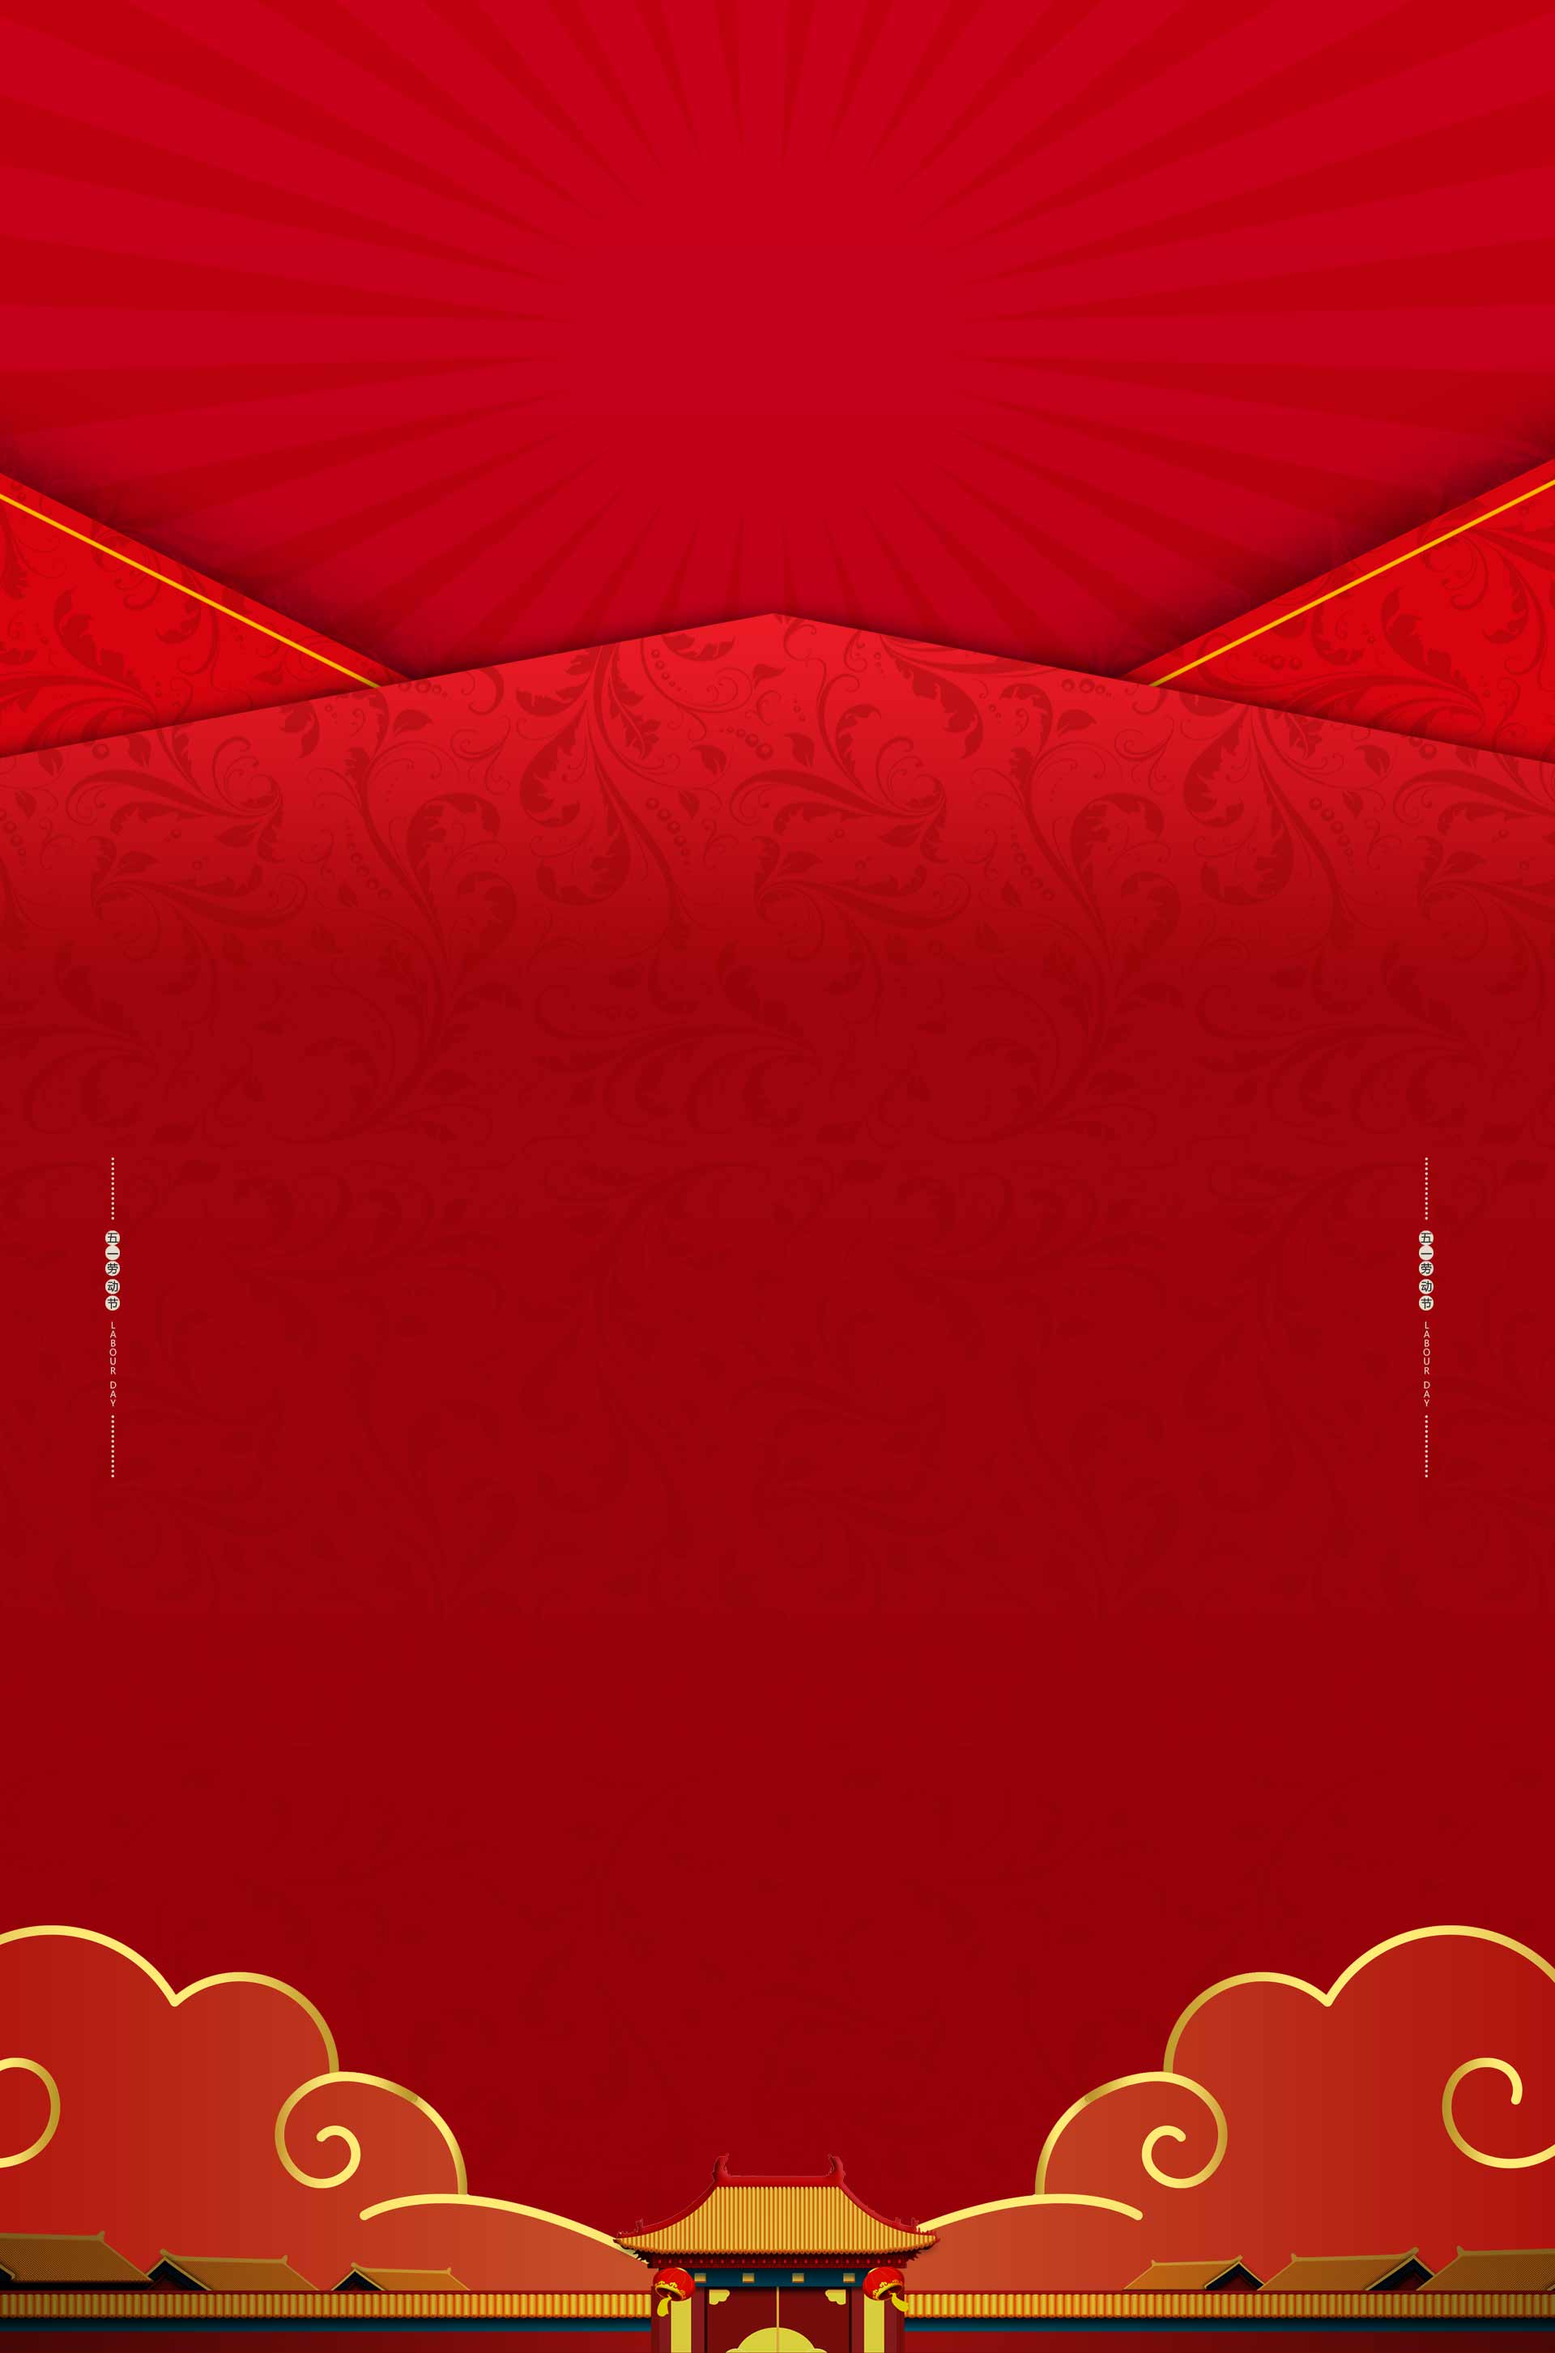
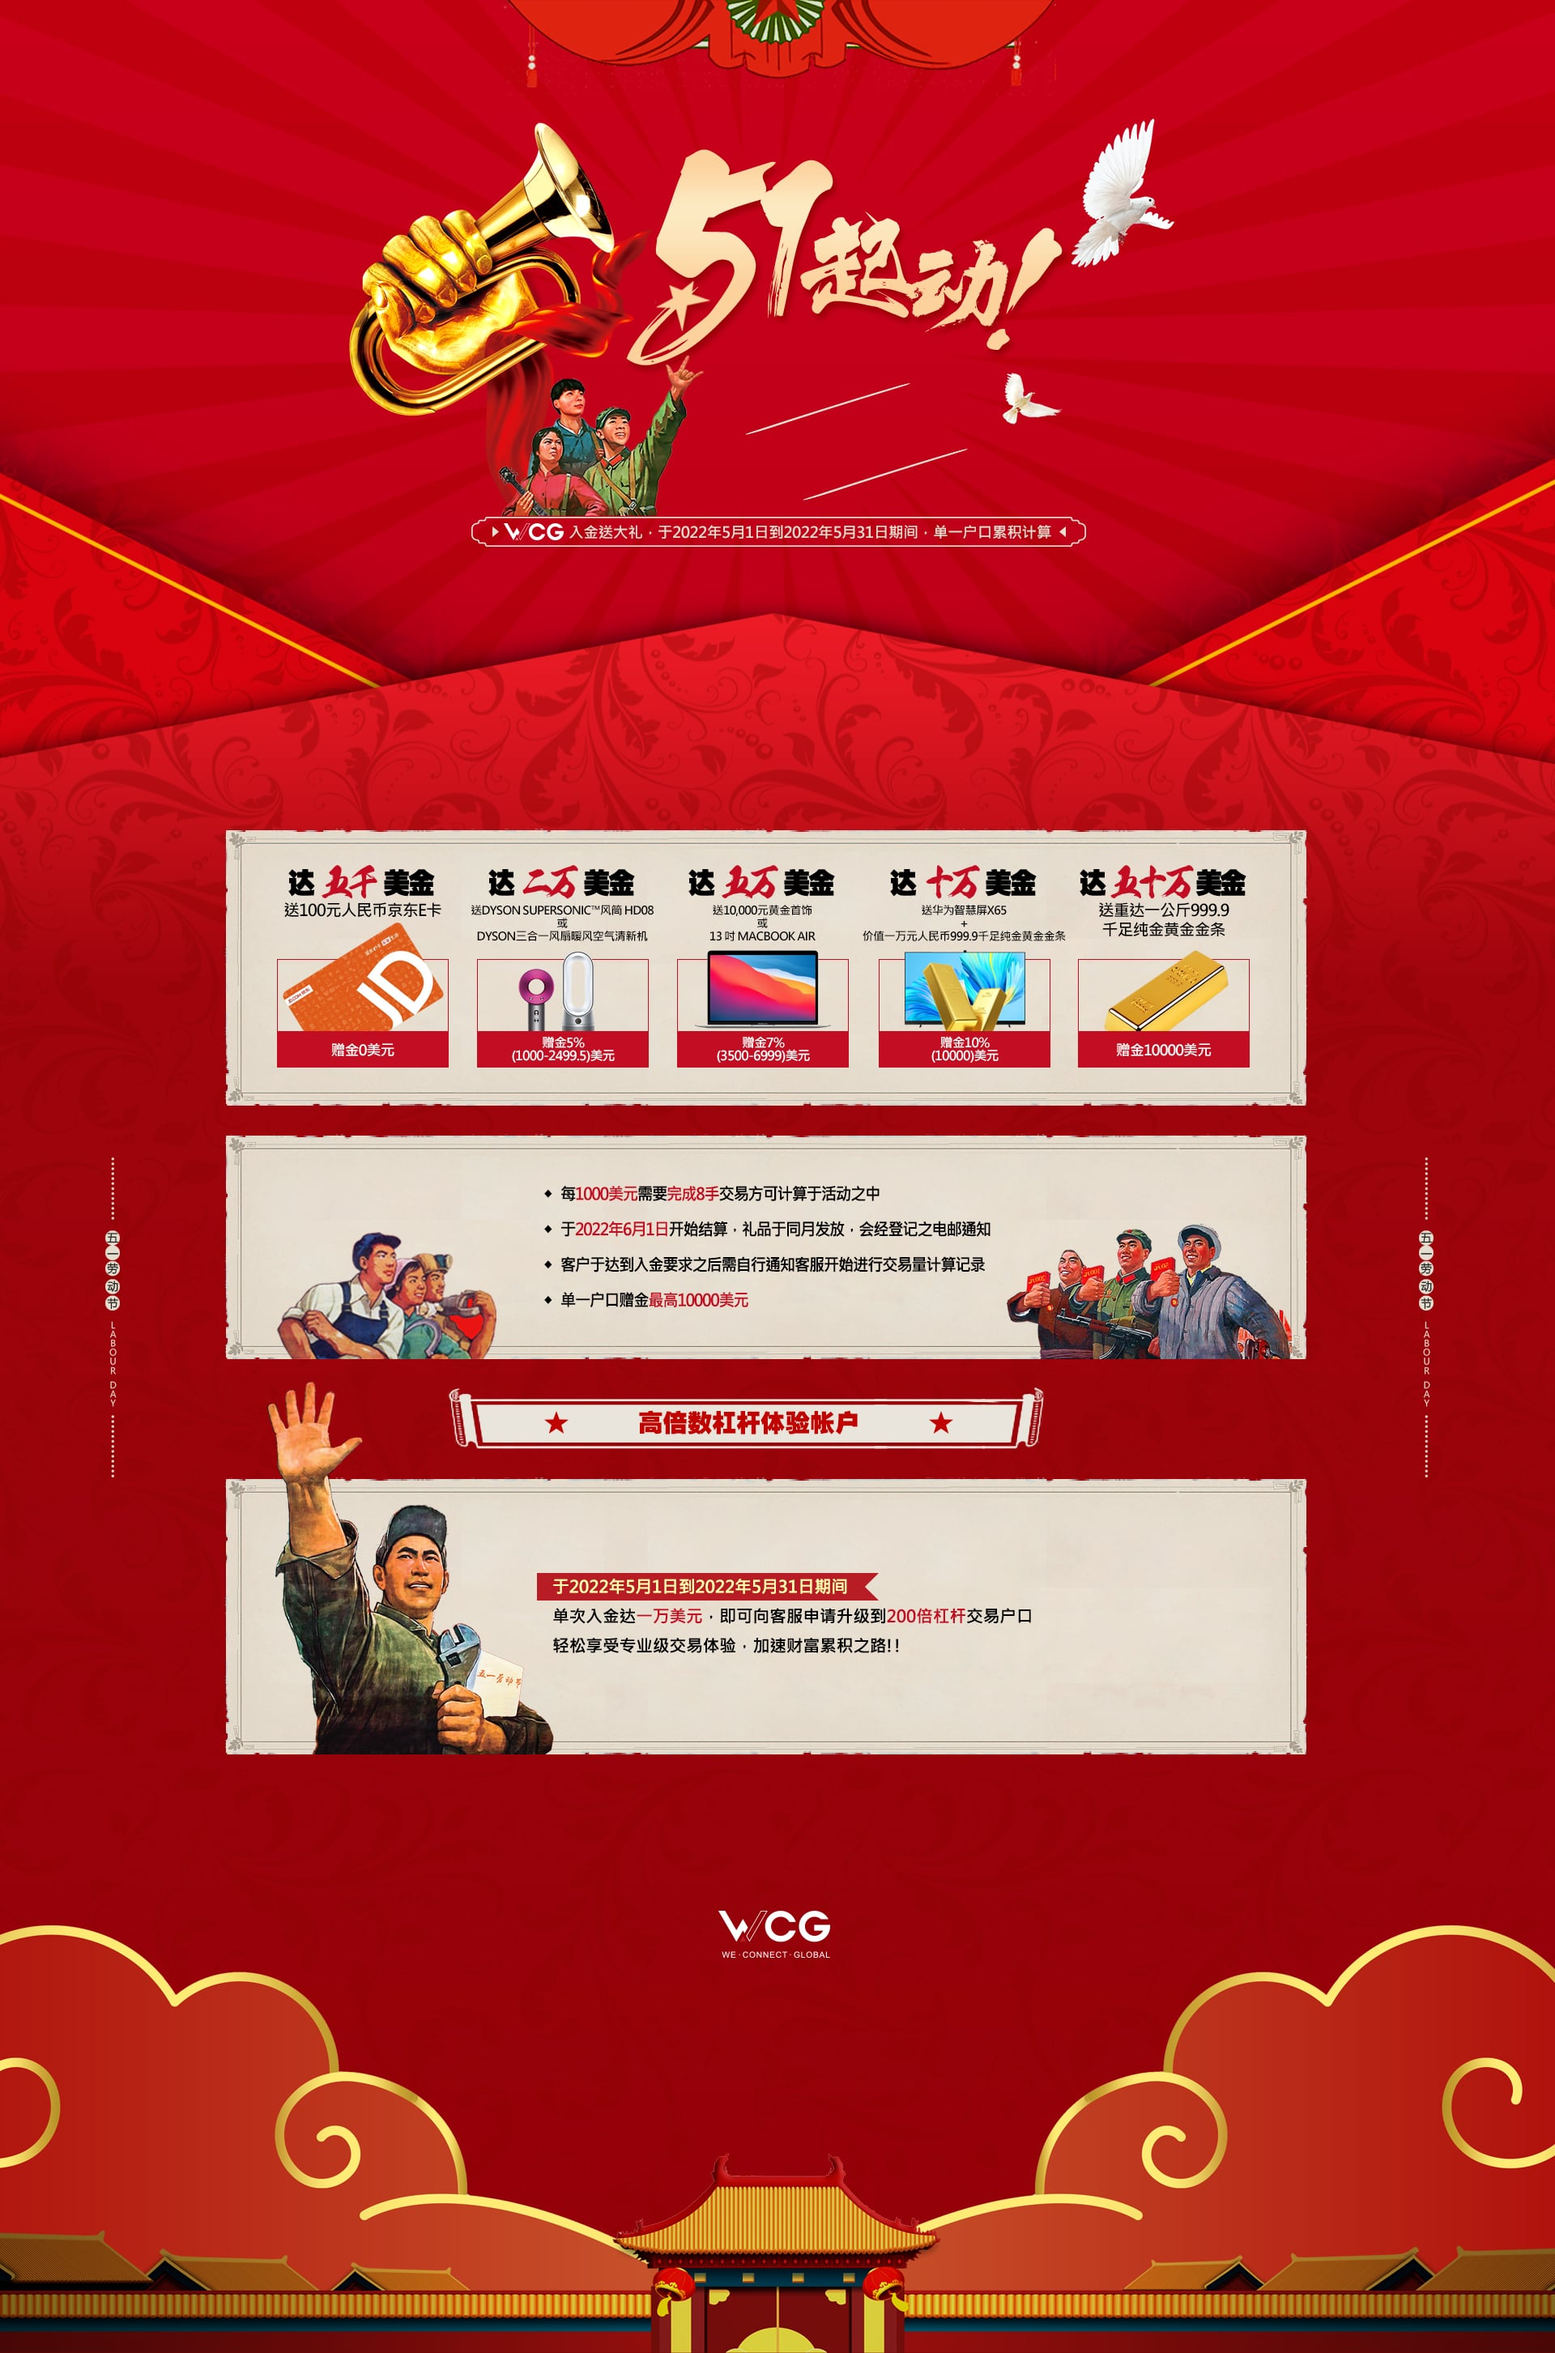
style(wcg51): add activity page, PC layout

Changed region(s): [[0.125, 0.3408, 0.8438, 0.7435], [0.2188, 0.0, 0.75, 0.2478], [0.4688, 0.8055, 0.5312, 0.8365]]

diff --git a/src/pages/activity/WCG51.tsx b/src/pages/activity/WCG51.tsx
@@ -1,9 +1,17 @@
+import { links } from '@/assets/links';
 import HTMLHead from '@/components/Base/HTMLHead';
 import LiveChat from '@/components/Base/LiveChat';
-import { Box } from '@chakra-ui/react';
+import { Locales } from '@/i18n/config';
+import { openChatWindow } from '@/utils/openChatWindow';
+import { Box, Flex, Image, Link, Stack } from '@chakra-ui/react';
+import NextLink from 'next/link';
+import { useRouter } from 'next/router';
 import React from 'react';
 
 const WCG51: React.FC<{}> = () => {
+  const router = useRouter();
+  const currentLang = router.locale as Locales;
+
   return (
     <>
       <HTMLHead />
@@ -15,8 +23,72 @@ const WCG51: React.FC<{}> = () => {
         bgPosition="center top"
         bgRepeat="no-repeat"
         height="2905px"
+        pt="800px"
       >
-        WCG51 page
+        <Flex pb="1580px" justify="center">
+          <NextLink passHref={true} href="/" locale={currentLang}>
+            <Image
+              _hover={{
+                opacity: 0.8,
+                transition: '1s',
+                cursor: 'pointer'
+              }}
+              src="../assets/images/activity_WCG51_b1.png"
+              alt="Instagram"
+              mr={3}
+            />
+          </NextLink>
+
+          <Link
+            _hover={{
+              opacity: 0.8,
+              transition: '1s'
+            }}
+            href={links.registerReal}
+            isExternal
+          >
+            <Image
+              src="../assets/images/activity_WCG51_b2.png"
+              alt="Instagram"
+              mr={3}
+            />
+          </Link>
+
+          <Box
+            _hover={{
+              opacity: 0.8,
+              transition: '1s',
+              cursor: 'pointer'
+            }}
+            onClick={openChatWindow}
+          >
+            <Image
+              src="../assets/images/activity_WCG51_b3.png"
+              alt="Instagram"
+            />
+          </Box>
+        </Flex>
+        <Flex justify="center">
+          <Stack
+            spacing={1}
+            color="white"
+            width="650px"
+            textAlign="center"
+            fontSize="14px"
+          >
+            <Box>
+              公司保留随时修改、暂停、终止本活动计划及任何相关规则条款之权利及其解释权，毋须事前通知客户。
+            </Box>
+            <Box>每位WCG客户只可使用一个账号参加此活动。</Box>
+            <Box>
+              若客户通过超短线刷单持仓低于5分钟的订单不计入本次活动的手数，AB仓交易或者不正规交易套取赠金，WCG有权停止客户交易，取消活动资格并按照WCG交易细则中异常交易的处理方法进行处理。
+            </Box>
+            <Box>
+              贵金属，原油交易手数定义; 黄金 1标准手100盎司，白银
+              1标准手2500盎司，原油1标准手1000桶。
+            </Box>
+          </Stack>
+        </Flex>
       </Box>
     </>
   );
